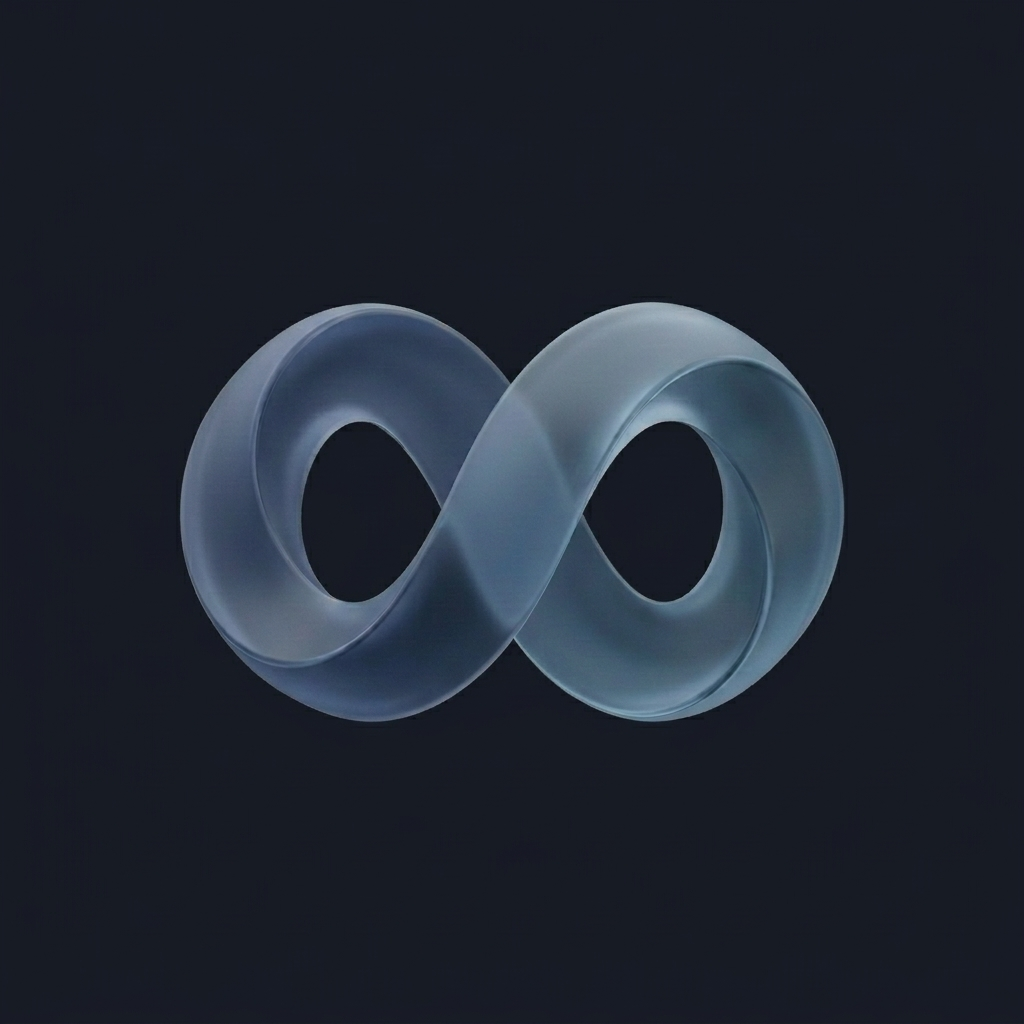
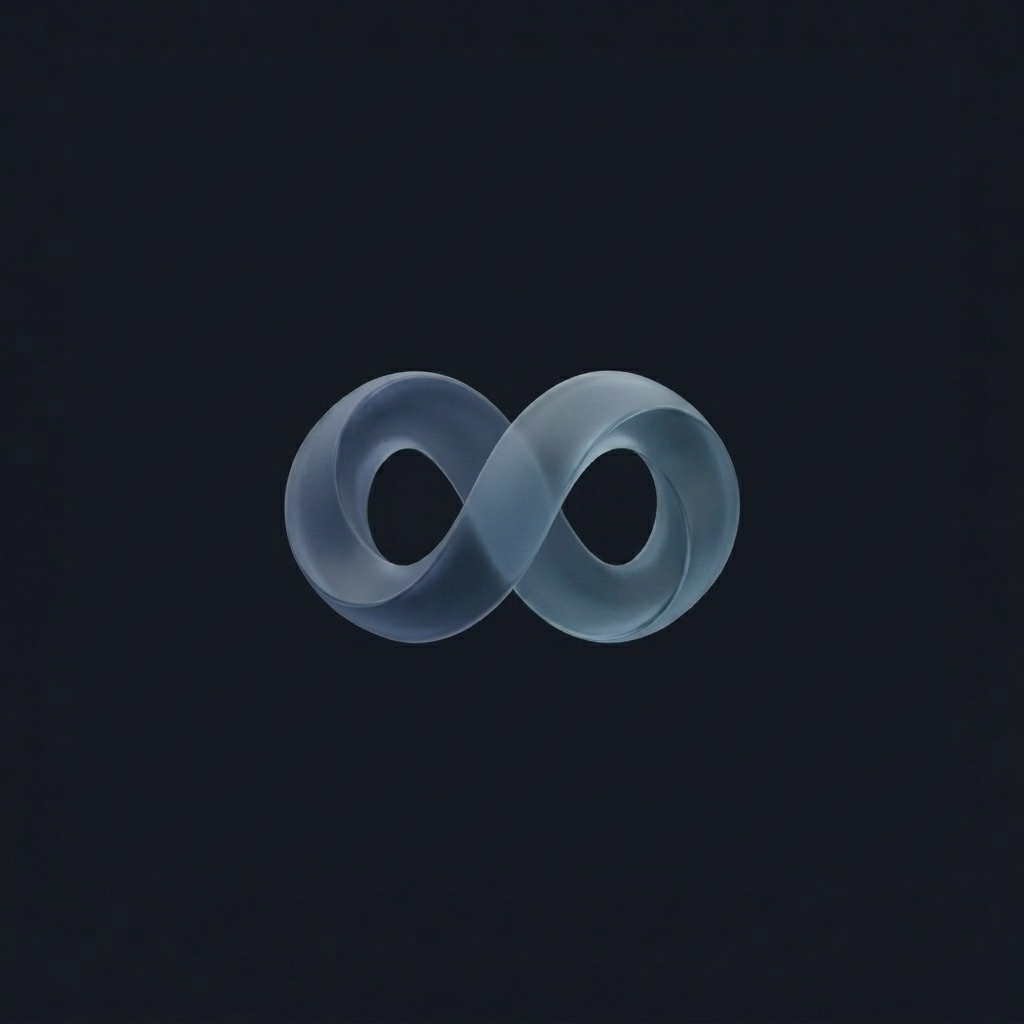
feat: update app assets and implement fixed sort order and dynamic labeling for chart granularity chips

Changed region(s): [[0.1562, 0.2812, 0.8438, 0.7188]]

diff --git a/components/insights/IncomeExpenseChart.tsx b/components/insights/IncomeExpenseChart.tsx
@@ -39,6 +39,10 @@ const GRANULARITY_OPTIONS: { key: ChartGranularity; label: string }[] = [
   { key: 'year',  label: 'Year' },
 ];
 
+// Visual sort order for chips — always Day → Week → Month → Year (Auto's slot is wherever its bucket type lands).
+const BUCKET_SORT: Record<BucketType, number> = { day: 0, week: 1, month: 2, year: 3 };
+const BUCKET_LABEL: Record<BucketType, string> = { day: 'Day', week: 'Week', month: 'Month', year: 'Year' };
+
 const MONTH_NAMES = ['Jan', 'Feb', 'Mar', 'Apr', 'May', 'Jun', 'Jul', 'Aug', 'Sep', 'Oct', 'Nov', 'Dec'];
 const MONTH_FULL_NAMES = ['January', 'February', 'March', 'April', 'May', 'June', 'July', 'August', 'September', 'October', 'November', 'December'];
 
@@ -56,9 +60,20 @@ export function IncomeExpenseChart({
   panelCloseToken,
   isLoading,
 }: Props): React.ReactElement | null {
-  // Compute once: which chips to render, and whether the toggle icon should show at all.
+  // Compute once: which chips to render (sorted Day → Week → Month → Year), and whether the toggle icon shows.
   const visibleGranularities = availableGranularities ?? GRANULARITY_OPTIONS.map((o) => o.key);
-  const chipsToRender = GRANULARITY_OPTIONS.filter((o) => visibleGranularities.includes(o.key));
+  const chipsToRender = GRANULARITY_OPTIONS
+    .filter((o) => visibleGranularities.includes(o.key))
+    .map((o) => {
+      // The 'auto' chip displays as its actual bucket type for this period (e.g. "Week" for Month period).
+      const effectiveType: BucketType | undefined = o.key === 'auto' ? autoBucketType : o.key as BucketType;
+      return {
+        key: o.key,
+        label: o.key === 'auto' && autoBucketType ? BUCKET_LABEL[autoBucketType] : o.label,
+        sort: effectiveType ? BUCKET_SORT[effectiveType] : 99,
+      };
+    })
+    .sort((a, b) => a.sort - b.sort);
   const hideToggleIcon = visibleGranularities.length === 0;
   const { width } = useWindowDimensions();
   const [activeIdx, setActiveIdx] = useState<number | null>(null);
@@ -406,7 +421,7 @@ export function IncomeExpenseChart({
                 style={{
                   flexDirection: 'row',
                   alignItems: 'center',
-                  justifyContent: 'flex-end',
+                  justifyContent: 'flex-start',
                   gap: 8,
                   paddingTop: 14,
                   paddingBottom: 6,
